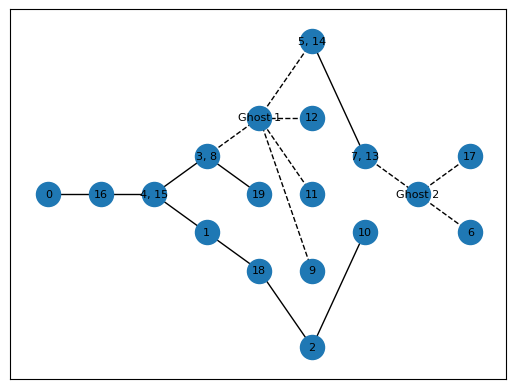
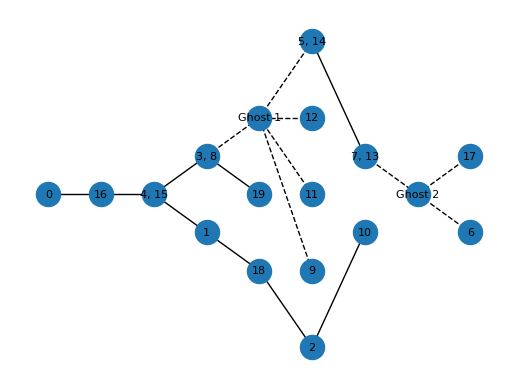
Removed black border from approxtree.png. Changed sizes of images in Gromov Tree project.

Changed region(s): [[0.9631, 0.9563, 0.9942, 0.9871]]

diff --git a/_pages/projects.md b/_pages/projects.md
@@ -12,8 +12,8 @@ permalink: /projects/
 ## [Gromov's Approximating Tree .ipynb](https://github.com/And-ers/Gromov-Trees)
 #### Research Tool / Demonstration
 
-<img src="../images/approxgraph.png" width=450px>
-<img src="../images/approxtree.png"  width=450px>
+<img src="../images/approxgraph.png" width=300px>
+<img src="../images/approxtree.png"  width=300px>
 
 Included in this repository is a Jupyter Notebook file containing an implementation of the algorithm discussed in [Gromov's Approximating Tree and the All-Pairs Bottleneck Paths Problem](https://arxiv.org/abs/2408.05338#) by Anders Cornect (myself) and Dr. Eduardo Martinez-Pedroza of Memorial University of Newfoundland.
 
